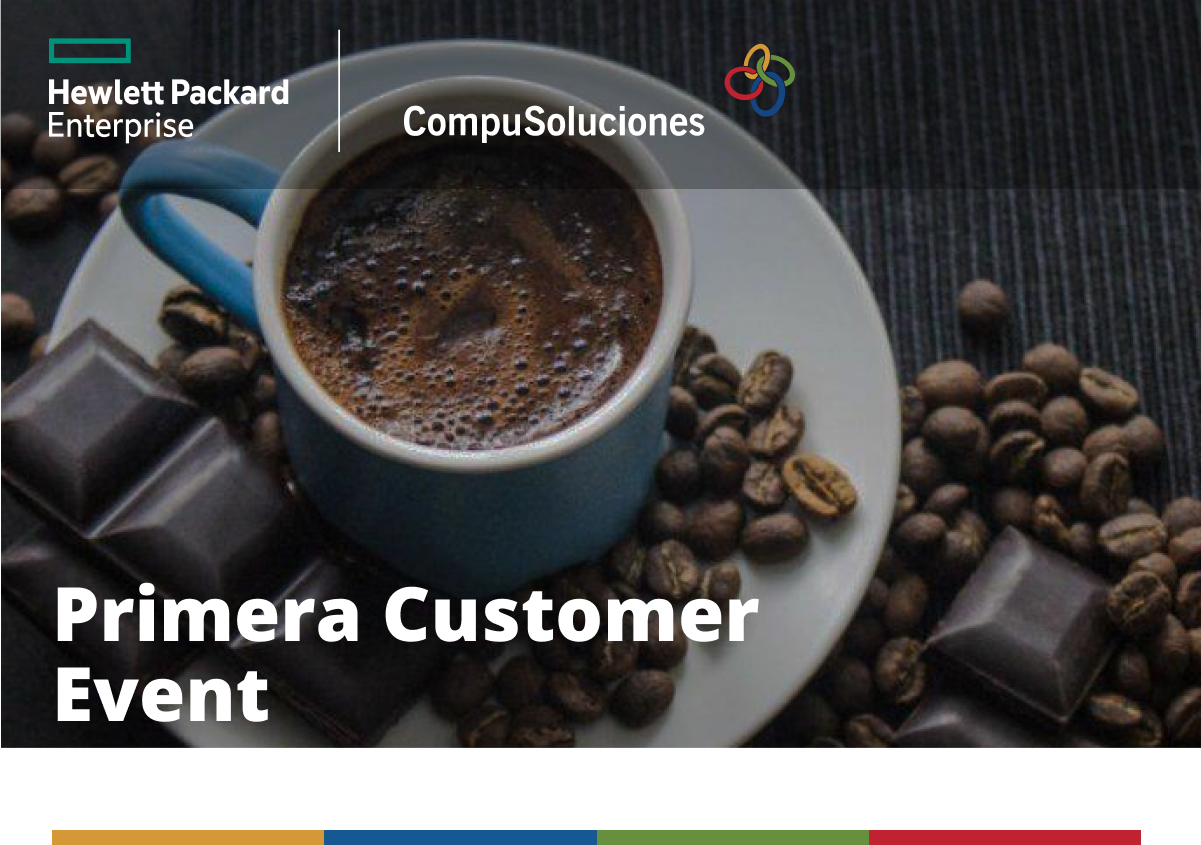
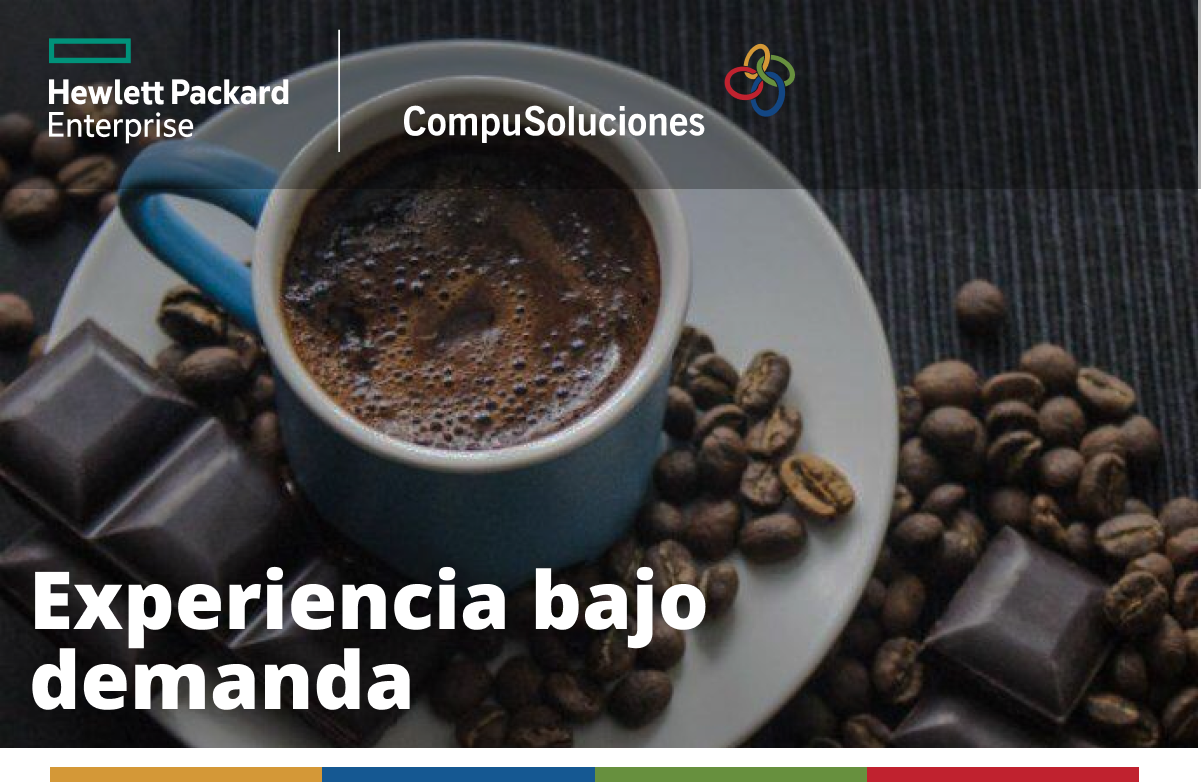
first commit

diff --git a/index.html b/index.html
@@ -151,128 +151,139 @@
                                                             <table class="wrapper" role="module" data-type="image" border="0" cellpadding="0" cellspacing="0" width="100%" style="table-layout: fixed;">
                                                                 <tr>
                                                                     <td style="font-size:6px;line-height:10px;padding:0px 0px 0px 0px; background-color: #000;" valign="top" align="center">
-                                                                        <img class="max-width" border="0" style="display:block;color:#000000;text-decoration:none;font-family:Helvetica, arial, sans-serif;font-size:16px;max-width:100% !important;width:100%;height:auto !important;" src="https://raw.githubusercontent.com/electronicsgp/compusol/main/images/slider.png"
-                                                                            alt="El futuro es prometedor" width="600">
+                                                                        <img class="max-width" border="0" style="display:block;color:#000000;text-decoration:none;font-family:Helvetica, arial, sans-serif;font-size:16px;max-width:100% !important;width:100%;height:auto !important;" src="./images/slider.png" alt="El futuro es prometedor"
+                                                                            width="600">
                                                                     </td>
                                                                 </tr>
                                                             </table>
-
-                                                            <table class="module" role="module" data-type="text" border="0" cellpadding="0" cellspacing="0" width="100%" style="table-layout: fixed;">
+                                                            <table class="module" role="module" data-type="text" border="0" cellpadding="0" cellspacing="0" width="100%" style="table-layout: fixed; ">
+                                                                <tr></tr>
                                                                 <tr>
-                                                                    <td style="background-color:#000;padding:38px 70px 28px 70px;line-height:22px;text-align:justify;" height="100%" valign="top" bgcolor="#000">
-                                                                        <div>
+                                                                    <td style="background-image: url(./images/bkg.png);background-size:100%; background-repeat: no-repeat;">
 
-                                                                            <div><span style="font-size:16px;"><span style="color: #fff;"><span style="font-family:arial,helvetica,sans-serif;">Forma parte del Evento que <span style="font-weight: bold;">Hewlett Packard Enterprise y CompuSolusiones</span>                                                                                trae para ti </span>
-                                                                                </span>
-                                                                                </span>
-                                                                            </div>
-                                                                            <div>&nbsp;</div>
-                                                                            <div style="text-align: center;"><span style="font-size:17px; font-weight: bold;"><span style="color: #fff;;"><span style="font-family:sans-serif;">Experimenta los diferentes sabores de Chocolate y Café guiados por nuestro Especialista.</span></span>
-                                                                                </span>
-                                                                            </div>
+                                                                        <table class="module" role="module" data-type="text" border="0" cellpadding="0" cellspacing="0" width="100%" style="table-layout: fixed; ">
+                                                                            <tr>
+                                                                                <td style=" padding:38px 70px 28px 70px;line-height:22px;text-align:center;" height="100%" valign="top" bgcolor="">
+                                                                                    <div>
 
-                                                                        </div>
+                                                                                        <div><span style="font-size:19px;font-weight: bold;"><span style="color: #fff;"><span style="font-family:arial,helvetica,sans-serif;">La evolución de <span style="color:#01A982;">HPE 3PAR</span>¡está
+                                                                                            aquí!
+                                                                                            </span>
+                                                                                            </span>
+                                                                                            </span>
+                                                                                        </div>
+                                                                                        <div>&nbsp;</div>
+                                                                                        <div style="text-align: center;"><span style="font-size:15px;font-style: bold;font-weight: 700;"><span style="color: #fff;"><span style="font-family:sans-serif;">Conozca y dé un salto a la evolución con la plataforma de almacenamiento más inteligente para aplicaciones de misión crítica del mercado HPE Primera. Es por esto que <span style="color:#01A982;">Hewlett Packard Enterprise</span>y
+                                                                                            <span style="color:#01A982;">CompuSoluciones</span> tienen el placer de invitarlo a que conozca cómo HPE Primera le puede otorgar un rendimiento predictivo para
+                                                                                            cargas de trabajo mixtas con una experiencia sencilla, asegurándole una disponibilidad de datos garantizada del 100% y una latencia siempre rápida y ultra-baja.
+                                                                                            <br><br> Tenga en cuenta la información logística del evento,<span style="color: #FFA100;"> regístrese ahora y reserve el espacio en su calendario.</span>
+                                                                                            </span>
+                                                                                            </span>
+                                                                                            </span>
+                                                                                        </div>
+
+                                                                                    </div>
+
+                                                                                </td>
+                                                                            </tr>
+
+                                                                        </table>
+                                                                        <table class="module" role="module" data-type="text" border="0" cellpadding="0" cellspacing="0" width="100%" style="table-layout: fixed; ">
+                                                                            <tr>
+                                                                                <td style=" padding:18px 70px 28px 70px;line-height:22px;text-align:center;" height="100%" valign="top" bgcolor="">
+                                                                                    <div>
+
+                                                                                        <div><span style="font-size:15px; font-weight: bold;"><span style="color: #fff;"><span style="font-family:arial,helvetica,sans-serif;">Al terminar este curso serás capaz de agilizar tus aplicaciones de misión crítica, elimina riesgos y simplifica la administración con la auto.optimización del desempeño mediante la IA, entre otras habilidades.</span>
+                                                                                            </span>
+                                                                                            </span>
+                                                                                        </div>
+                                                                                        <div>&nbsp;</div>
+
+
+                                                                                    </div>
+
+                                                                                </td>
+                                                                            </tr>
+
+                                                                        </table>
+                                                                        <table class="wrapper" role="module" data-type="image" border="0" cellpadding="0" cellspacing="0" width="100%" style="table-layout: fixed;">
+                                                                            <tr>
+                                                                                <td style="font-size:6px;line-height:10px;padding:0px 0px 0px 0px;" valign="top" align="center">
+                                                                                    <img class="max-width" border="0" style="display:block;color:#000000;text-decoration:none;font-family:Helvetica, arial, sans-serif;font-size:16px;max-width:100% !important;width:100%;height:auto !important;" src="./images/img1.png" alt="El futuro es prometedor"
+                                                                                        width="600">
+                                                                                </td>
+                                                                            </tr>
+                                                                        </table>
+
+                                                                        <table class="module" role="module" data-type="text" border="0" cellpadding="0" cellspacing="0" width="100%" style="table-layout: fixed;">
+                                                                            <tr>
+                                                                                <td style="padding:50px 65px 10px 50px;line-height:22px;text-align:left;" height="100%" valign="top" bgcolor="">
+                                                                                    <div style="text-align:center;">
+                                                                                        <div style="text-align:center;"><span style="color:#FFFFFF;"><span style="font-size:28px;font-weight: bold;"><span style="font-family:arial,helvetica,sans-serif;">¡Te esperamos!</span></span>
+                                                                                            </span>
+                                                                                        </div>
+
+                                                                                    </div>
+                                                                                </td>
+                                                                            </tr>
+
+                                                                        </table>
+                                                                        <table class="module" role="module" data-type="text" border="0" cellpadding="0" cellspacing="0" width="100%" style="table-layout: fixed;">
+                                                                            <tr>
+
+                                                                                <td style="padding:15px 30px 20px 30px;line-height:22px;" width="55%" height="100%" align="center" valign="top" bgcolor="">
+                                                                                    <a href="https://bit.ly/3fXyhi1"><img class="max-width" border="0" style="display:block;color:#000000;text-decoration:none;font-family:Helvetica, arial, sans-serif;font-size:16px;" src="./images/button.png"
+                                                                                            alt="button" width="30%">
+                                                                                    </a>
+
+                                                                                </td>
+                                                                            </tr>
+                                                                        </table>
+                                                                        <table class="module" role="module" data-type="text" border="0" cellpadding="0" cellspacing="0" width="100%" style="table-layout: fixed; ">
+                                                                            <tr>
+                                                                                <td style=" padding:38px 0px 28px 70px;line-height:22px;text-align:left;" width=70% height="100%" valign="top" bgcolor="">
+                                                                                    <div>
+
+                                                                                        <div><span style="font-size:16px;font-weight: bold; "><span style="color:#fff; "><span style="font-family:arial,helvetica,sans-serif; ">Tu asistencia al evento incluye un kit, haznos llegar el domicilio a donde puedas recibirlo.</span></span>
+                                                                                            </span>
+                                                                                        </div>
+                                                                                        <div><span style="font-size:13px;"><span style="color:#fff; "><span style="font-family:arial,helvetica,sans-serif; ">Recuerda colocar la dirección completa, incluyendo, calle, colonia, interiores, código postal y cualquier información necesaria para poder hacerte llegar el kit.</span></span>
+                                                                                            </span>
+                                                                                        </div>
+
+                                                                                    </div>
+
+                                                                                </td>
+                                                                                <td style=" padding:38px 70px 28px 0px;line-height:22px;" height="100%" valign="top" align="right" bgcolor="">
+                                                                                    <div>
+
+                                                                                        <a href="https://wa.link/0nwmaj"><img class="max-width " border="0 " style="display:block;color:#000000;text-decoration:none;font-family:Helvetica, arial,
+                                                                                            sans-serif;font-size:16px; " src="./images/whats.png" alt="button " width="90% ">
+                                                                                        </a>
+
+
+                                                                                    </div>
+
+                                                                                </td>
+                                                                            </tr>
+                                                                        </table>
+                                                                        <table class="module" role="module" data-type="text" border="0" cellpadding="0" cellspacing="0" width="100%" style="table-layout: fixed;">
+                                                                            <tr>
+                                                                                <td style="background-color:#000;padding:18px 70px 28px 70px;line-height:22px;text-align:justify;" height="100%" valign="top" bgcolor="#000">
+                                                                                    <div>
+
+                                                                                        <div style="text-align: center;"><span style="font-size:17px; font-weight: bold;"><span style="color: #fff;;"><span style="font-family:sans-serif;">Mayor información contacta <br>
+                                                                                            Zuleima Santiago, zsantiag@compusoluciones.com</span></span>
+                                                                                            </span>
+                                                                                        </div>
+
+                                                                                    </div>
+                                                                                </td>
+                                                                            </tr>
+                                                                        </table>
 
                                                                     </td>
                                                                 </tr>
-
-                                                            </table>
-                                                            <table class="module" role="module" data-type="text" border="0" cellpadding="0" cellspacing="0" width="100%" style="table-layout: fixed;">
-                                                                <tr>
-                                                                    <td style="background-color:#000;padding:10px 0px 48px 100px;line-height:22px;text-align:left;" width=60% height="100%" valign="top" bgcolor="#000">
-                                                                        <div>
-                                                                            <div><span style="font-size:13px;font-style: italic; "><span style="color:#fff;"><span style="font-family:arial,helvetica,sans-serif;">Speaker<br>
-                                                                               <span style="font-weight: bold;">José Antonio González 
-                                                                            </span>
-                                                                                <br>Especialista HIT HPE<br>
-
-
-                                                                                </span>
-                                                                                </span>
-                                                                                </span>
-                                                                            </div>
-                                                                        </div>
-
-                                                                    </td>
-                                                                    <td style="background-color:#000;padding:10px 10px 10px 0px;line-height:22px;" height="100%" valign="top" bgcolor="#000">
-                                                                        <div>
-
-                                                                            <img class="max-width" border="0" style="display:block;color:#000000;text-decoration:none;font-family:Helvetica, arial, sans-serif;font-size:16px;" src="https://raw.githubusercontent.com/electronicsgp/compusol/main/images/fecha.png" alt="button" width="65%">
-
-
-                                                                        </div>
-
-                                                                    </td>
-                                                                </tr>
-
-                                                            </table>
-                                                            <table class="module" role="module" data-type="text" border="0" cellpadding="0" cellspacing="0" width="100%" style="table-layout: fixed; background-color:#000;">
-                                                                <tr>
-                                                                    <td style="background-color:#000;padding:15px 65px 10px 50px;line-height:22px;text-align:left;" height="100%" valign="top" bgcolor="#000">
-                                                                        <div style="text-align:center;">
-                                                                            <div style="text-align:center;"><span style="color:#FFFFFF;"><span style="font-size:28px;font-weight: bold;"><span style="font-family:arial,helvetica,sans-serif;">¡Te esperamos!</span></span>
-                                                                                </span>
-                                                                            </div>
-
-                                                                        </div>
-                                                                    </td>
-                                                                </tr>
-
-                                                            </table>
-                                                            <table class="module" role="module" data-type="text" border="0" cellpadding="0" cellspacing="0" width="100%" style="table-layout: fixed;background-color:#000;">
-                                                                <tr>
-
-                                                                    <td style="background: color #000;padding:15px 30px 20px 30px;line-height:22px;" width="55%" height="100%" align="center" valign="top" bgcolor="#000">
-                                                                        <a href="https://bit.ly/3fXyhi1"><img class="max-width" border="0" style="display:block;color:#000000;text-decoration:none;font-family:Helvetica, arial, sans-serif;font-size:16px;" src="https://raw.githubusercontent.com/electronicsgp/compusol/main/images/button.png"
-                                                                                alt="button" width="30%">
-                                                                        </a>
-
-                                                                    </td>
-                                                                </tr>
-                                                            </table>
-
-
-                                                            <table class="module " role="module " data-type="text " border="0 " cellpadding="0 " cellspacing="0 " width="100% " style="table-layout: fixed; ">
-                                                                <tr>
-                                                                    <td style="background-color:#000;padding:25px 0px 20px 50px;line-height:22px;text-align:left; " height="100% " valign="top " bgcolor="#000 ">
-                                                                        <div>
-
-
-                                                                            <div><span style="font-size:16px;font-weight: bold; "><span style="color:#fff; "><span style="font-family:arial,helvetica,sans-serif; ">Tu asistencia al evento incluye un kit, haznos llegar el domicilio a donde puedas recibirlo.
-                                                                                </span></span>
-                                                                                </span>
-                                                                            </div>
-                                                                            <div><span style="font-size:14px;"><span style="color:#fff; "><span style="font-family:arial,helvetica,sans-serif; ">
-                                                                                Recuerda colocar la dirección completa, incluyendo, calle, colonia, interiores, código postal y cualquier información necesaria para poder hacerte llegar el kit.</span></span>
-                                                                                </span>
-                                                                            </div>
-
-                                                                        </div>
-
-                                                                    </td>
-                                                                    <td style="background-color:#000;padding:25px 70px 20px 0px;line-height:22px; " width="30% " height="100% " align="right" valign="top " bgcolor="#000 ">
-                                                                        <a href="https://wa.link/0nwmaj"><img class="max-width " border="0 " style="display:block;color:#000000;text-decoration:none;font-family:Helvetica, arial,
-                                                                                sans-serif;font-size:16px; " src="https://raw.githubusercontent.com/electronicsgp/compusol/main/images/whats.png" alt="button " width="80% ">
-                                                                        </a>
-
-                                                                    </td>
-                                                                </tr>
-                                                            </table>
-                                                            <table class="module" role="module" data-type="text" border="0" cellpadding="0" cellspacing="0" width="100%" style="table-layout: fixed;">
-                                                                <tr>
-                                                                    <td style="background-color:#000;padding:18px 70px 28px 70px;line-height:22px;text-align:justify;" height="100%" valign="top" bgcolor="#000">
-                                                                        <div>
-
-                                                                            <div style="text-align: center;"><span style="font-size:17px; font-weight: bold;"><span style="color: #fff;;"><span style="font-family:sans-serif;">Mayor información contacta <br>
-                                                                                Zuleima Santiago, zsantiag@compusoluciones.com</span></span>
-                                                                                </span>
-                                                                            </div>
-
-                                                                        </div>
-
-                                                                    </td>
-                                                                </tr>
-
                                                             </table>
 
 
